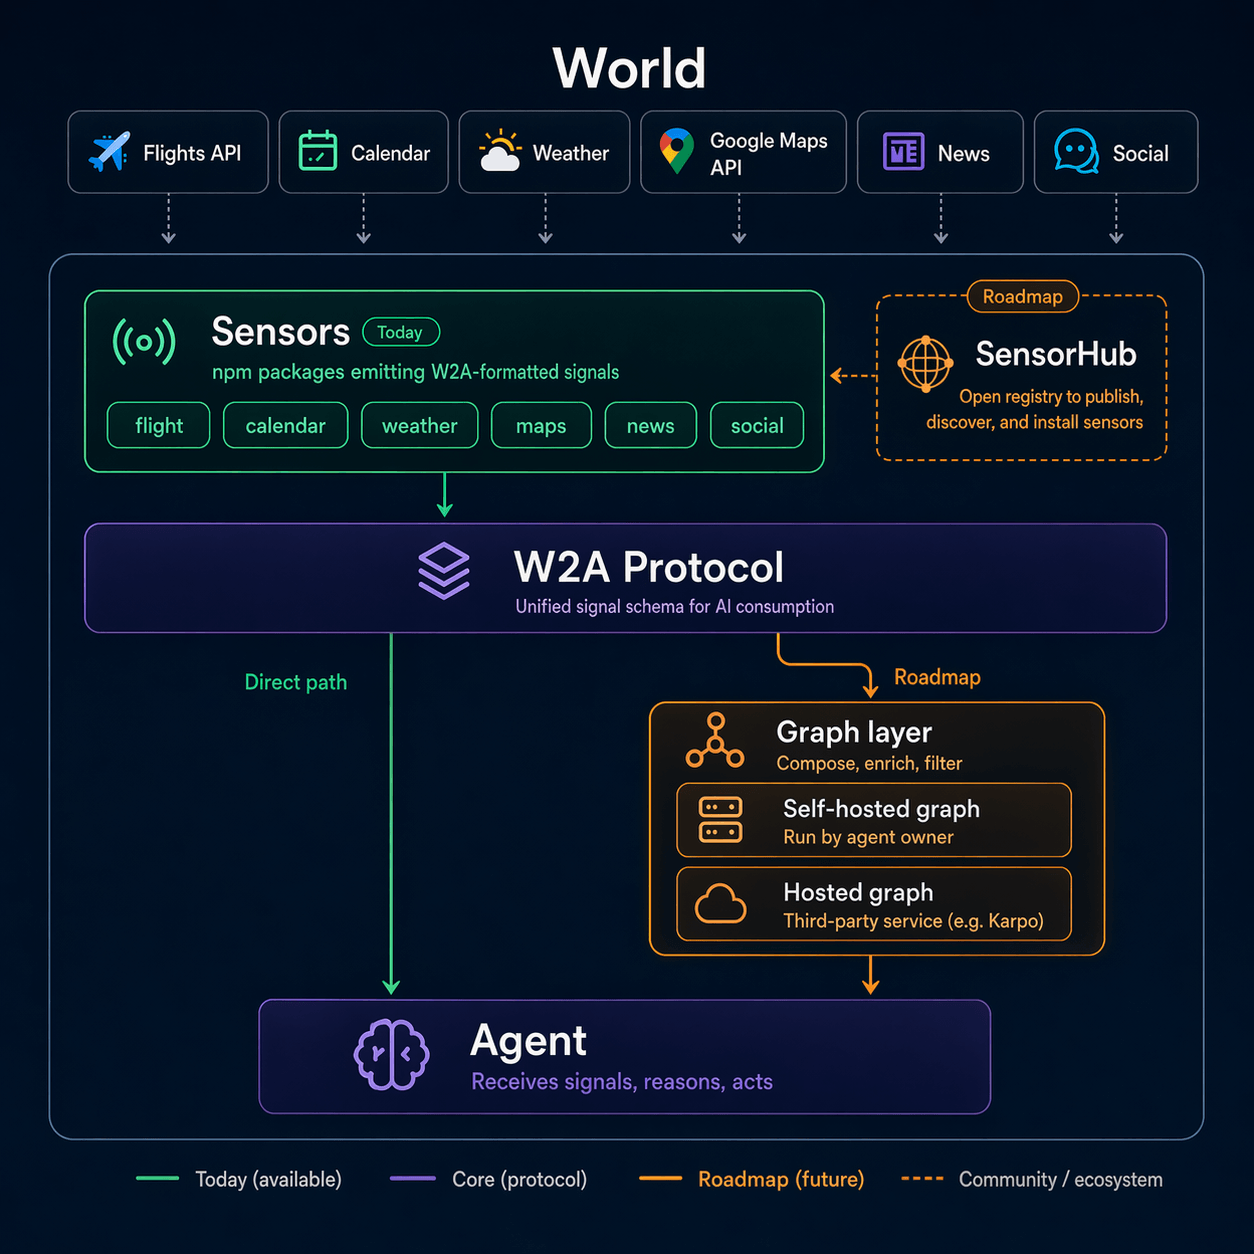
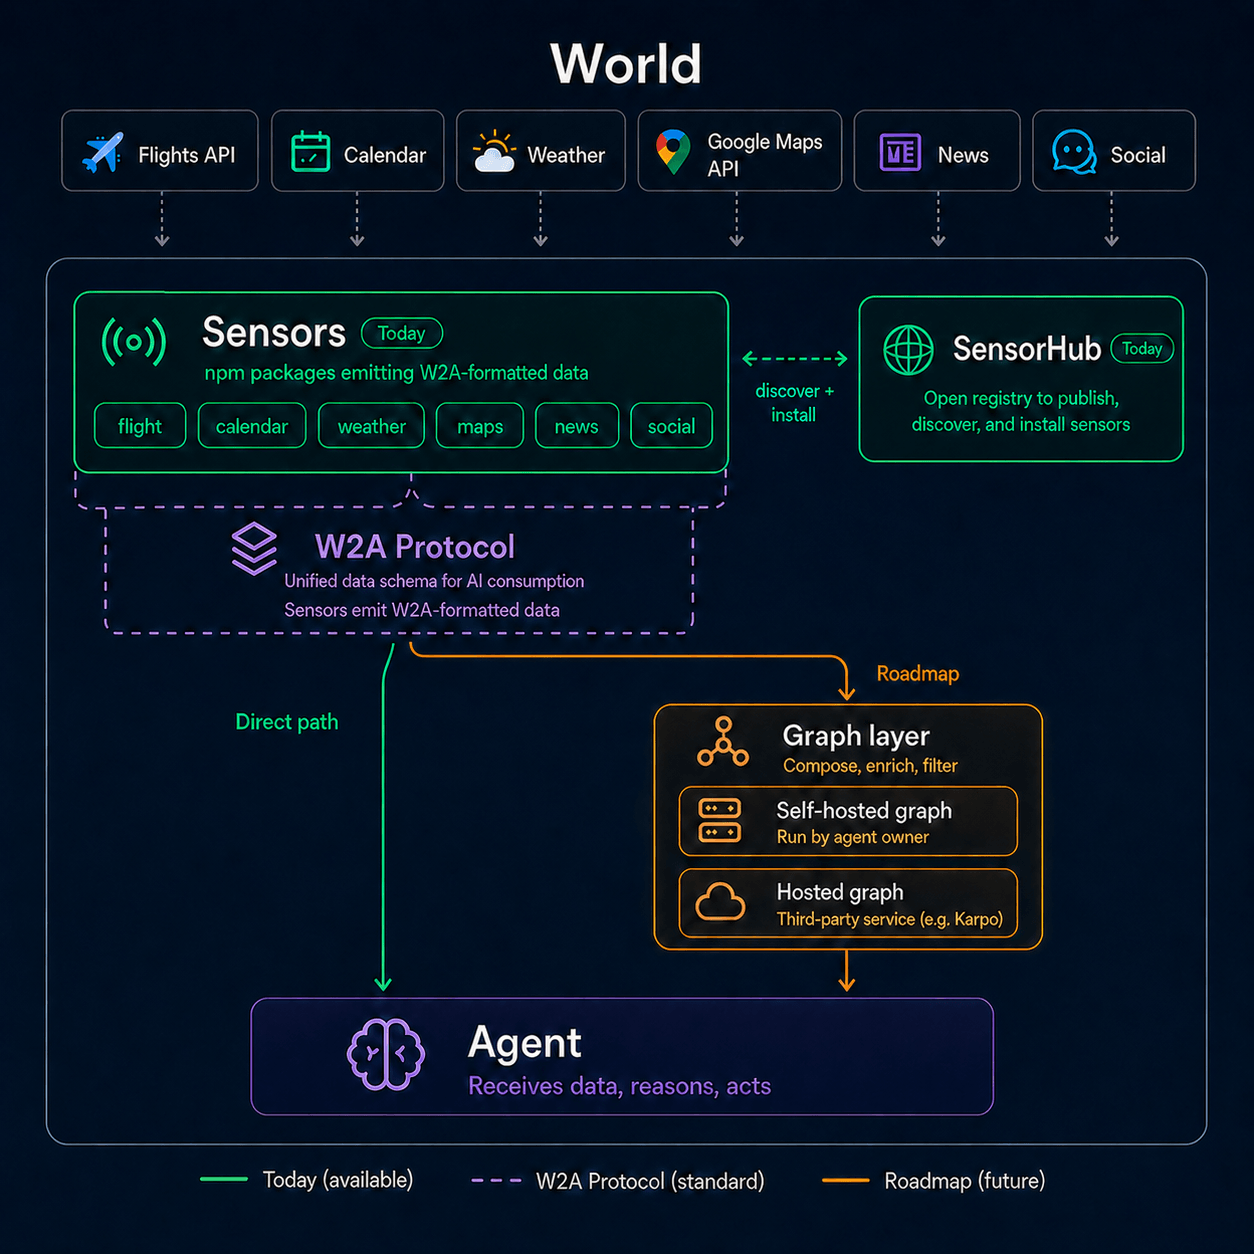
docs: update system architecture image (#3)
* docs: update system-architecture diagram

* docs: update README with new banner image and text formatting changes

* fix: update copyright holder in LICENSE and enhance README with new images and publishing instructions for sensors

---------

Changed region(s): [[0.0311, 0.0311, 0.9641, 0.9641], [0.0933, 0.4976, 0.1866, 0.5287], [0.8086, 0.5598, 0.8397, 0.5909]]

diff --git a/skills/build-w2a-sensor/SKILL.md b/skills/build-w2a-sensor/SKILL.md
@@ -439,6 +439,48 @@ If the summary is unreadable, your Phase 2 work wasn't thorough — go back.
 
 ---
 
+## Phase 6 — Offer to publish
+
+Once the sensor builds clean, the harness tests pass, and the install flow produces a sensible handler skill, the package works locally — but a sensor that lives only on the author's disk doesn't participate in the W2A ecosystem. Other users who want to perceive the same source have no way to find or install it.
+
+**Do not publish unprompted.** Ask the user first, in plain language, something like:
+
+> "The sensor is working locally. Want to publish it to npm so others with the same need can install it directly? It'll be discoverable via `npm search w2a-sensor` and listable in SensorHub once that launches. If you'd rather keep it private for now, that's fine — you can publish later."
+
+If the user declines, stop here. Note that they can revisit publishing any time; do not nag.
+
+If the user agrees, walk them through the checks below before running the publish command — do not run `npm publish` silently.
+
+1. **Pre-flight the manifest.** Confirm `package.json` is publish-ready:
+   - `name` — final coordinates (scoped names like `@your-scope/sensor-<source>` are fine and recommended; they avoid name squatting).
+   - `version` — start at `0.1.0`; bump per semver on every subsequent publish.
+   - `description`, `keywords` (the five mandatory W2A tags + `<source_type>`), `license`, `repository`, `homepage`, `author` — registries and SensorHub surface these.
+   - `files` — already restricts to `dist`, `SETUP.md`, `README.md`; double-check no secrets or fixtures leak in. Run `npm pack --dry-run` to preview the tarball contents.
+   - `w2a` block — `source_type` and `signals` reflect Phase 1 / Phase 2 final answers, not placeholders.
+
+2. **Verify the build artifact ships.** `pnpm build` (or equivalent) and confirm `dist/` exists with `index.js`, `index.d.ts`, and `bin.js`. The bin file should start with the `#!/usr/bin/env node` shebang so `npx <bin-name>` works after install.
+
+3. **Login + dry-run.** `npm whoami` to confirm the right account; `npm publish --dry-run` to preview what would upload. Read the file list out loud — if anything looks wrong, fix `files` / `.npmignore` rather than YOLO-ing the publish.
+
+4. **Publish.**
+   - Public scoped package: `npm publish --access public` (scoped packages default to private; the flag is required on first publish).
+   - Unscoped package: `npm publish`.
+   - 2FA-protected account: have the user ready with their OTP.
+
+5. **Smoke-test the published artifact.** In a scratch directory: `npm view <package-name>` to confirm the registry sees it, then dry-run the install flow against the published name (`/world2agent:sensor-add <package-name>` in Claude Code) — not the local path — to confirm `SETUP.md` is in the tarball and the Q&A still works end-to-end.
+
+6. **Tag the release.** `git tag v0.1.0 && git push --tags` so the npm version maps back to a commit.
+
+7. **Submit to SensorHub.** After a successful publish, point the user to https://world2agent.ai/hub/submit to register their package. Phrase it as an invitation, not a chore — something like:
+
+   > "Publish succeeded 🎉 Open https://world2agent.ai/hub/submit to list your sensor on SensorHub so other users can find and install it. You'll just need the package name; the rest is pulled from npm."
+
+   SensorHub is the discovery surface beyond `npm search`. Submitting is what turns a published package into something other W2A users actually find.
+
+If publishing fails for a reason you don't immediately understand (E403, name conflict, 2FA loop), stop and surface the error to the user — do not retry blindly with version bumps.
+
+---
+
 ## Rules
 
 - **Protocol is authoritative.** For any field shape or naming rule, https://github.com/machinepulse-ai/world2agent wins. This skill mirrors it; if the two drift, fix the skill.

diff --git a/README.md b/README.md
@@ -1,7 +1,7 @@
-![Welcome to World2Agent](./docs/images/readme-banner.png)
+![Welcome to World2Agent](https://world2agent.ai/assets/readme-banner.png)
 
 <p align="center">
-  <strong>Agents can't act on what they can't perceive.</strong>
+  <i>Agents can't act on what they can't perceive.</i>
 </p>
 
 <p align="center">
@@ -22,13 +22,11 @@
 <p align="center">
   <a href="https://world2agent.ai/assets/promo-w2a.mp4">
     Watch the W2A Concept Video
+  </a>
 </p>
 
 <p align="center">
-  <img src="https://img.shields.io/github/stars/machinepulse-ai/world2agent?style=social" alt="GitHub Stars" />
-</p>
-<p align="center">
-  Like what you see? Give us a ⭐ — every star helps more developers discover W2A.
+  <img src="https://world2agent.ai/assets/github-star.gif" width="600" alt="star" />
 </p>
 
 ***
@@ -75,13 +73,7 @@ claude --dangerously-load-development-channels plugin:world2agent@world2agent-pl
 
 > **Security — install only sensors you trust.** A sensor's signals drive what your agent perceives and does, so an untrusted sensor is effectively an untrusted instruction source. Stick to open-source sensors from authors you trust, and review the code first.
 
-Or pipe directly to any agent runtime — no plugin needed:
-
-```bash
-w2a-sensor-hackernews | your-agent
-```
-
-**Building your own agent?** See the [developer quick start](./docs/quick-start.md#option-2-code--sdk--sensor) for the SDK code path.
+**Integrating W2A into your own agent system?** See the [developer quick start](./docs/quick-start.md#option-2-code--sdk--sensor) for the SDK code path.
 
 → [Full guide](./docs/quick-start.md) · [Multi-sensor](./docs/multi-sensor.md) · [SensorHub](./docs/sensorhub.md)
 
@@ -126,7 +118,7 @@ That's all it takes to share your sensor with the world — once published, it's
 
 ## Community
 
-[Website](https://machinepulse.ai/) · [X / Twitter](https://x.com/Karpo_AI) · [YouTube](https://www.youtube.com/channel/UCmuDMSxQp2LLJ4nrkPuCGQw)
+[Website](https://machinepulse.ai/) · [X / Twitter](https://x.com/MachinePulse_AI) · [YouTube](https://youtube.com/@MachinePulse_AI) · [Discord](https://discord.gg/hDjaD8pX)
 
 <!-- Star History — uncomment after launch -->
 <!-- [![Star History Chart](https://api.star-history.com/svg?repos=machinepulse-ai/world2agent&type=Date)](https://star-history.com/#machinepulse-ai/world2agent&Date) -->
